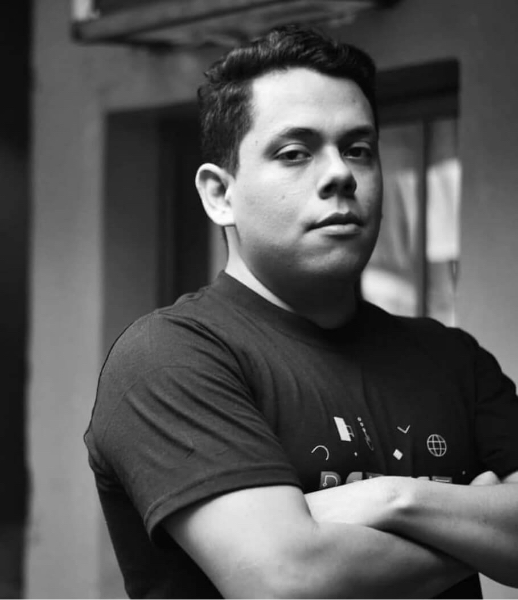
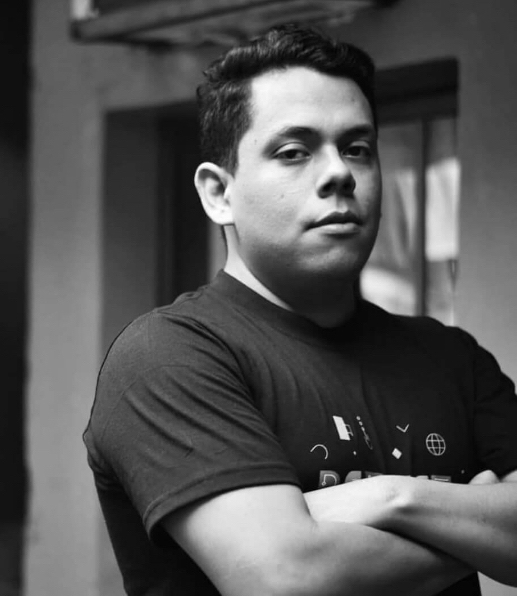
feat: tweak styling

diff --git a/apps/web/src/utils/stitches.config.ts b/apps/web/src/utils/stitches.config.ts
@@ -2,14 +2,17 @@ import { gray, violet, violetDark, slate, slateDark, grayDark } from '@radix-ui/
 import type * as Stitches from '@stitches/react';
 import { createStitches } from '@stitches/react';
 
-export const { styled, css, globalCss, keyframes, getCssText, theme, createTheme, config, reset } = createStitches({
+export const { styled, css, globalCss, getCssText, theme, createTheme, config } = createStitches({
   theme: {
     colors: {
       ...gray,
       ...violet,
       ...slate,
 
-      figureBg: gray.gray12,
+      figureBg: slate.slate12,
+    },
+    shadows: {
+      default: `0 25px 50px -12px ${slateDark.slate4}`,
     },
   },
 });
@@ -22,14 +25,16 @@ export const darkTheme = createTheme({
     ...violetDark,
     ...slateDark,
 
-    figureBg: gray.gray12,
+    figureBg: slate.slate12,
+  },
+  shadows: {
+    default: `0 25px 50px -12px ${slateDark.slate1}`,
   },
 });
 
 const GlobalStyles = globalCss({
   body: {
-    background: '$gray1',
-    color: '$text',
+    background: '$slate1',
   },
 });
 

diff --git a/apps/web/src/pages/index.jsx b/apps/web/src/pages/index.jsx
@@ -24,21 +24,19 @@ export default function Home({ frontPageData, preview }) {
 
   return (
     <Layout>
-      <div className="pageWrapper">
-        {frontPage && (
-          <>
-            <ThemeToggle />
-            <HeroImage image={frontPage.mainImage} />
-            <Profile
-              heading={frontPage.heading}
-              subHeading={frontPage.subHeading}
-              excerpt={frontPage.excerpt}
-              posts={frontPage.externalPosts}
-            />
-          </>
-        )}
-        <SocialIcons />
-      </div>
+      {frontPage && (
+        <>
+          <ThemeToggle />
+          <HeroImage image={frontPage.mainImage} />
+          <Profile
+            heading={frontPage.heading}
+            subHeading={frontPage.subHeading}
+            excerpt={frontPage.excerpt}
+            posts={frontPage.externalPosts}
+          />
+        </>
+      )}
+      <SocialIcons />
     </Layout>
   );
 }

diff --git a/apps/web/src/components/theme-toggle.tsx b/apps/web/src/components/theme-toggle.tsx
@@ -1,15 +1,25 @@
 import { IconMoon, IconSun } from '@tabler/icons';
 import { useTheme } from 'next-themes';
+import { useState, useEffect } from 'react';
 
-import { styled } from '../stitches.config';
+import { styled } from '@/utils/stitches.config';
 
 export function ThemeToggle() {
+  const [mounted, setMounted] = useState(false);
   const { theme, setTheme } = useTheme();
-  const toggleTheme = () => setTheme(theme === 'light' ? 'dark' : 'light');
+  const handleToggleTheme = () => setTheme(theme === 'light' ? 'dark' : 'light');
+
+  useEffect(() => {
+    setMounted(true);
+  }, []);
+
+  if (!mounted) {
+    return null;
+  }
 
   return (
     <ToggleBox>
-      <ThemeToggleButton onClick={toggleTheme}>{theme === 'dark' ? <IconSun /> : <IconMoon />}</ThemeToggleButton>
+      <ThemeToggleButton onClick={handleToggleTheme}>{theme === 'dark' ? <IconSun /> : <IconMoon />}</ThemeToggleButton>
     </ToggleBox>
   );
 }

diff --git a/apps/web/src/components/layout/index.jsx b/apps/web/src/components/layout/index.jsx
@@ -2,11 +2,13 @@
 import Head from 'next/head';
 import Script from 'next/script';
 
+import { PageWrapper } from './layout.styles';
+
 import config from '@/utils/config';
 
 export function Layout({ children }) {
   return (
-    <main>
+    <PageWrapper>
       <Head>
         <meta httpEquiv="x-ua-compatible" content="ie=edge" />
         <meta name="viewport" content="width=device-width, initial-scale=1, shrink-to-fit=no" />
@@ -46,6 +48,6 @@ export function Layout({ children }) {
         />
       )}
       {children}
-    </main>
+    </PageWrapper>
   );
 }

diff --git a/apps/web/src/components/hero-image/hero-image.styles.ts b/apps/web/src/components/hero-image/hero-image.styles.ts
@@ -1,4 +1,4 @@
-import { styled } from '../../stitches.config';
+import { styled } from '@/utils/stitches.config';
 
 export const ImageSide = styled('section', {
   alignItems: 'center',
@@ -21,7 +21,7 @@ export const HeroImageWrapper = styled('div', {
   top: '50%',
   right: '-200px',
   transform: 'translateY(-50%)',
-  boxShadow: '0 16px 48px rgba(45, 45, 45, 0.31)',
+  boxShadow: '$default',
   borderRadius: '6px',
   overflow: 'hidden',
   maxWidth: '920px',

diff --git a/apps/web/src/components/profile/profile.styles.ts b/apps/web/src/components/profile/profile.styles.ts
@@ -1,4 +1,4 @@
-import { styled } from '../../stitches.config';
+import { styled } from '@/utils/stitches.config';
 
 export const ProfileWrapper = styled('section', {
   position: 'relative',
@@ -19,7 +19,7 @@ export const ProfileWrapper = styled('section', {
 
   span: {
     color: '$violet11',
-    backgroundColor: '$violet4',
+    backgroundColor: '$violet3',
   },
 
   '@media (min-width: 993px)': {

diff --git a/apps/web/src/css/reset.css b/apps/web/src/css/reset.css
@@ -81,22 +81,3 @@ html {
     "Liberation Mono", Menlo, Courier, monospace;
 }
 
-.pageWrapper {
-  max-width: 100%;
-  max-height: 100vh;
-  overflow: hidden;
-  display: flex;
-  align-items: center;
-  justify-content: space-between;
-}
-
-.mailWrapper {
-  position: absolute;
-  top: 30px;
-  right: 30px;
-}
-
-.mailWrapper a {
-  color: #333;
-  text-decoration: none;
-}

diff --git a/apps/web/src/pages/_document.jsx b/apps/web/src/pages/_document.jsx
@@ -1,7 +1,7 @@
 import NextDocument, { Html, Head, Main, NextScript } from 'next/document';
 import React from 'react';
 
-import { getCssText } from '../stitches.config';
+import { getCssText } from '@/utils/stitches.config';
 
 export default class Document extends NextDocument {
   render() {

diff --git a/apps/web/src/pages/_app.jsx b/apps/web/src/pages/_app.jsx
@@ -1,7 +1,7 @@
-import '../css/layout.css';
+import '../css/reset.css';
 import { ThemeProvider } from 'next-themes';
 
-import { darkTheme } from '../stitches.config';
+import { darkTheme } from '@/utils/stitches.config';
 
 const App = ({ Component, pageProps }) => {
   return (

diff --git a/apps/web/src/components/layout/layout.styles.ts b/apps/web/src/components/layout/layout.styles.ts
@@ -1,0 +1,10 @@
+import { styled } from '@/utils/stitches.config';
+
+export const PageWrapper = styled('main', {
+  maxWidth: '100%',
+  maxHeight: '100vh',
+  overflow: 'hidden',
+  display: 'flex',
+  alignItems: 'center',
+  justifyContent: 'space-between',
+});

diff --git a/apps/web/src/components/social-icons/social-icons.styles.ts b/apps/web/src/components/social-icons/social-icons.styles.ts
@@ -1,4 +1,4 @@
-import { styled } from '../../stitches.config';
+import { styled } from '@/utils/stitches.config';
 
 export const SocialIconsWrapper = styled('ul', {
   position: 'absolute',
